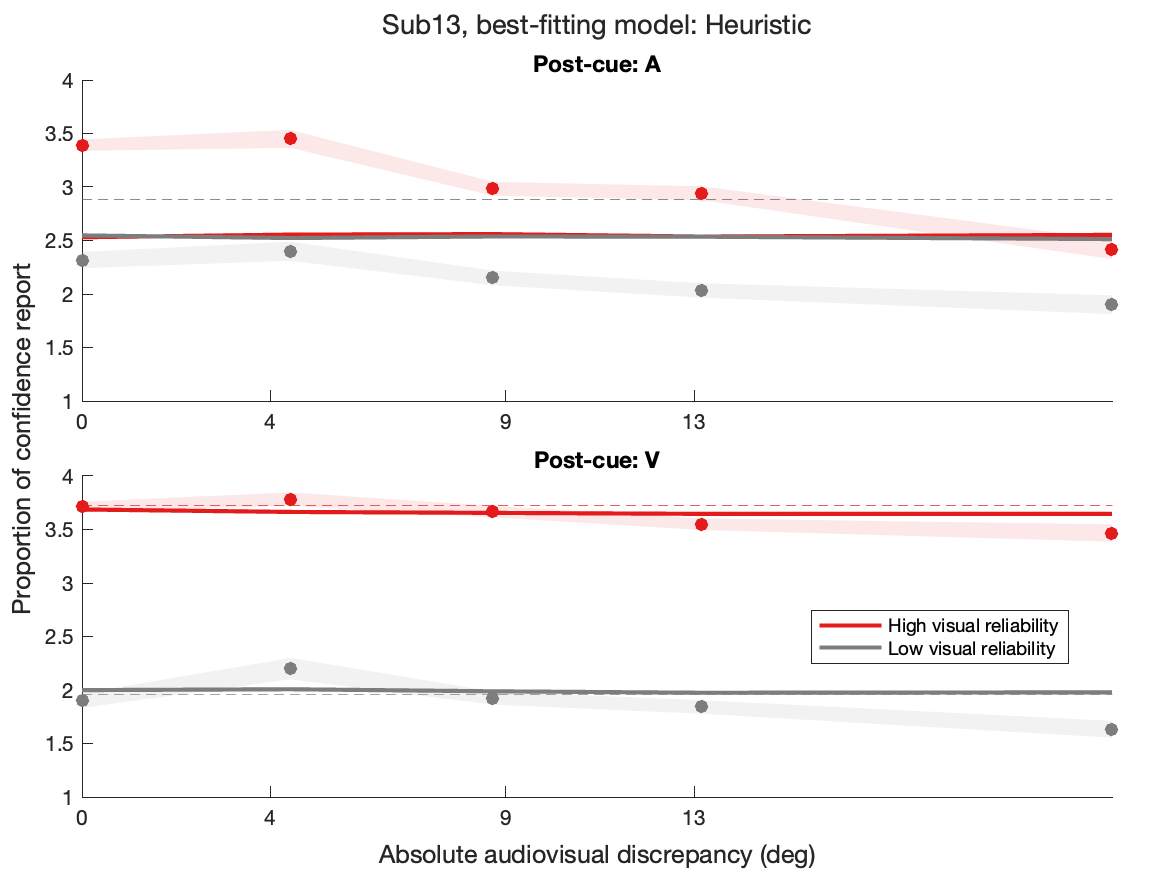
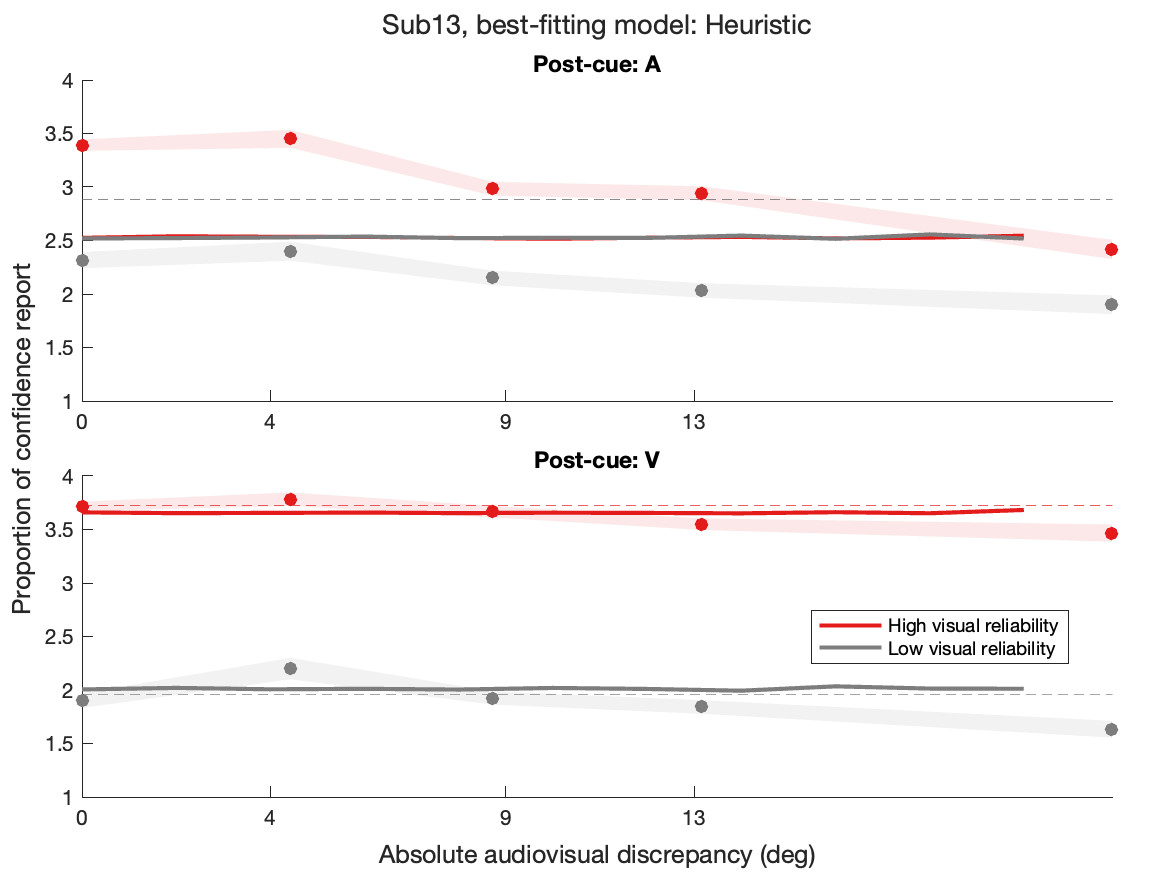
pls fix the bug for continuous prediction

diff --git a/modelFit/uniBiLocV8_2stage_sharedSigma_4C/nllUniBiConf.m b/modelFit/uniBiLocV8_2stage_sharedSigma_4C/nllUniBiConf.m
@@ -155,24 +155,46 @@ switch model.mode
 
             fixP.uni_sA = model.uni_sA;
             fixP.uni_sV = model.uni_sV;
-            bi_sA = model.bi_sA;
-            bi_sV = model.bi_sV;
             fixP.uni_nrep = model.uni_nrep;
             fixP.bi_nrep = model.bi_nrep;
             fixP.model_ind = model.model_slc;
             fixP.sigMotor = sigMotor;
+            sA = model.bi_sA;
+            sV = model.bi_sV;
+            finer_sA = -10:2:10;
+            finer_sV = -10:2:10;
 
+            % uni-loc
             [out.uni_loc, out.uni_conf, out.uni_est_var] = simUni(...
                 aA, bA, sigA, sigV1, sigV2, muP, sigP, sigC, [c1; c4; c7], [c2; c5; c8], [c3; c6; c9], lapse, fixP);
 
-            [bi_loc, bi_conf, bi_est_var] = deal(NaN(numel(bi_sA), numel(bi_sV), numel(model.modality), numel(sigVs), model.bi_nrep));
+            % bi-loc
+            [bi_loc, ~, bi_est_var] = deal(NaN(numel(sA), numel(sV), numel(model.modality), numel(sigVs), model.bi_nrep));
 
-            for aa = 1:numel(bi_sA)
-                for vv = 1:numel(bi_sV)
+            for aa = 1:numel(sA)
+                for vv = 1:numel(sV)
                     for rr = 1:numel(sigVs)
 
-                        fixP.bi_sA = bi_sA(aa);
-                        fixP.bi_sV = bi_sV(vv);
+                        fixP.bi_sA = sA(aa);
+                        fixP.bi_sV = sV(vv);
+
+                        [bi_loc(aa,vv,:,rr,:), ~, ~, ~, bi_est_var(aa, vv, :, rr, :)] = simAllModels(...
+                            aA, bA, sigA, sigVs(rr), muP, sigP, pCommon, sigC, c1s{rr}, c2s{rr}, c3s{rr}, lapse, fixP);
+
+                    end
+                end
+            end
+
+            % bi-conf
+
+            [bi_conf] = deal(NaN(numel(finer_sA), numel(finer_sV), numel(model.modality), numel(sigVs), model.bi_nrep));
+
+            for aa = 1:numel(finer_sA)
+                for vv = 1:numel(finer_sV)
+                    for rr = 1:numel(sigVs)
+
+                        fixP.bi_sA = finer_sA(aa);
+                        fixP.bi_sV = finer_sV(vv);
 
                         [bi_loc(aa,vv,:,rr,:), bi_conf(aa,vv,:,rr,:), ~, ~, bi_est_var(aa, vv, :, rr, :)] = simAllModels(...
                             aA, bA, sigA, sigVs(rr), muP, sigP, pCommon, sigC, c1s{rr}, c2s{rr}, c3s{rr}, lapse, fixP);
@@ -184,6 +206,10 @@ switch model.mode
             out.bi_loc = bi_loc;
             out.bi_conf = bi_conf;
             out.bi_est_var = bi_est_var;
+            out.uni_sA = sA;
+            out.bi_sA = finer_sA;
+            out.bi_sV = finer_sV;
+
 
         end
 end

diff --git a/func/analyze_data.m b/func/analyze_data.m
@@ -21,9 +21,9 @@ else % load unimodal data if there's no prediction
     if exist('pred','var') % load bimodal prediction if it exists
         bi_loc = pred.bi_loc;
         bi_conf = pred.bi_conf;
-        bi_sA = unique(pred.sA);
-        bi_sV = unique(pred.sV);
-        uni_sA = unique(pred.biExpInfo.randAudVA);
+        bi_sA = pred.bi_sA;
+        bi_sV = pred.bi_sV;
+        uni_sA = pred.uni_sA;
     else % load bimodal data if there's no prediction
         [bi_loc, bi_conf, ~, biExpInfo] = org_data(sub_slc,ses_slc,'biLoc');
         [uni_loc, uni_conf, ~, ~] = org_data(sub_slc,[],'uniLoc');

diff --git a/modelFit/biLocV3_4ratings/plotModelPrediction.m b/modelFit/biLocV3_4ratings/plotModelPrediction.m
@@ -35,8 +35,7 @@ load(files(end).name);
 
 % winning model?
 [~, d] = min([saveConfModel{1}.minNLL, saveConfModel{2}.minNLL, saveConfModel{3}.minNLL]);
-d=2;
-
+disp(d)
 % use the best-fitting parameter and winning model
 p = saveConfModel{d}.bestP;
 model.mode = 'predict';
